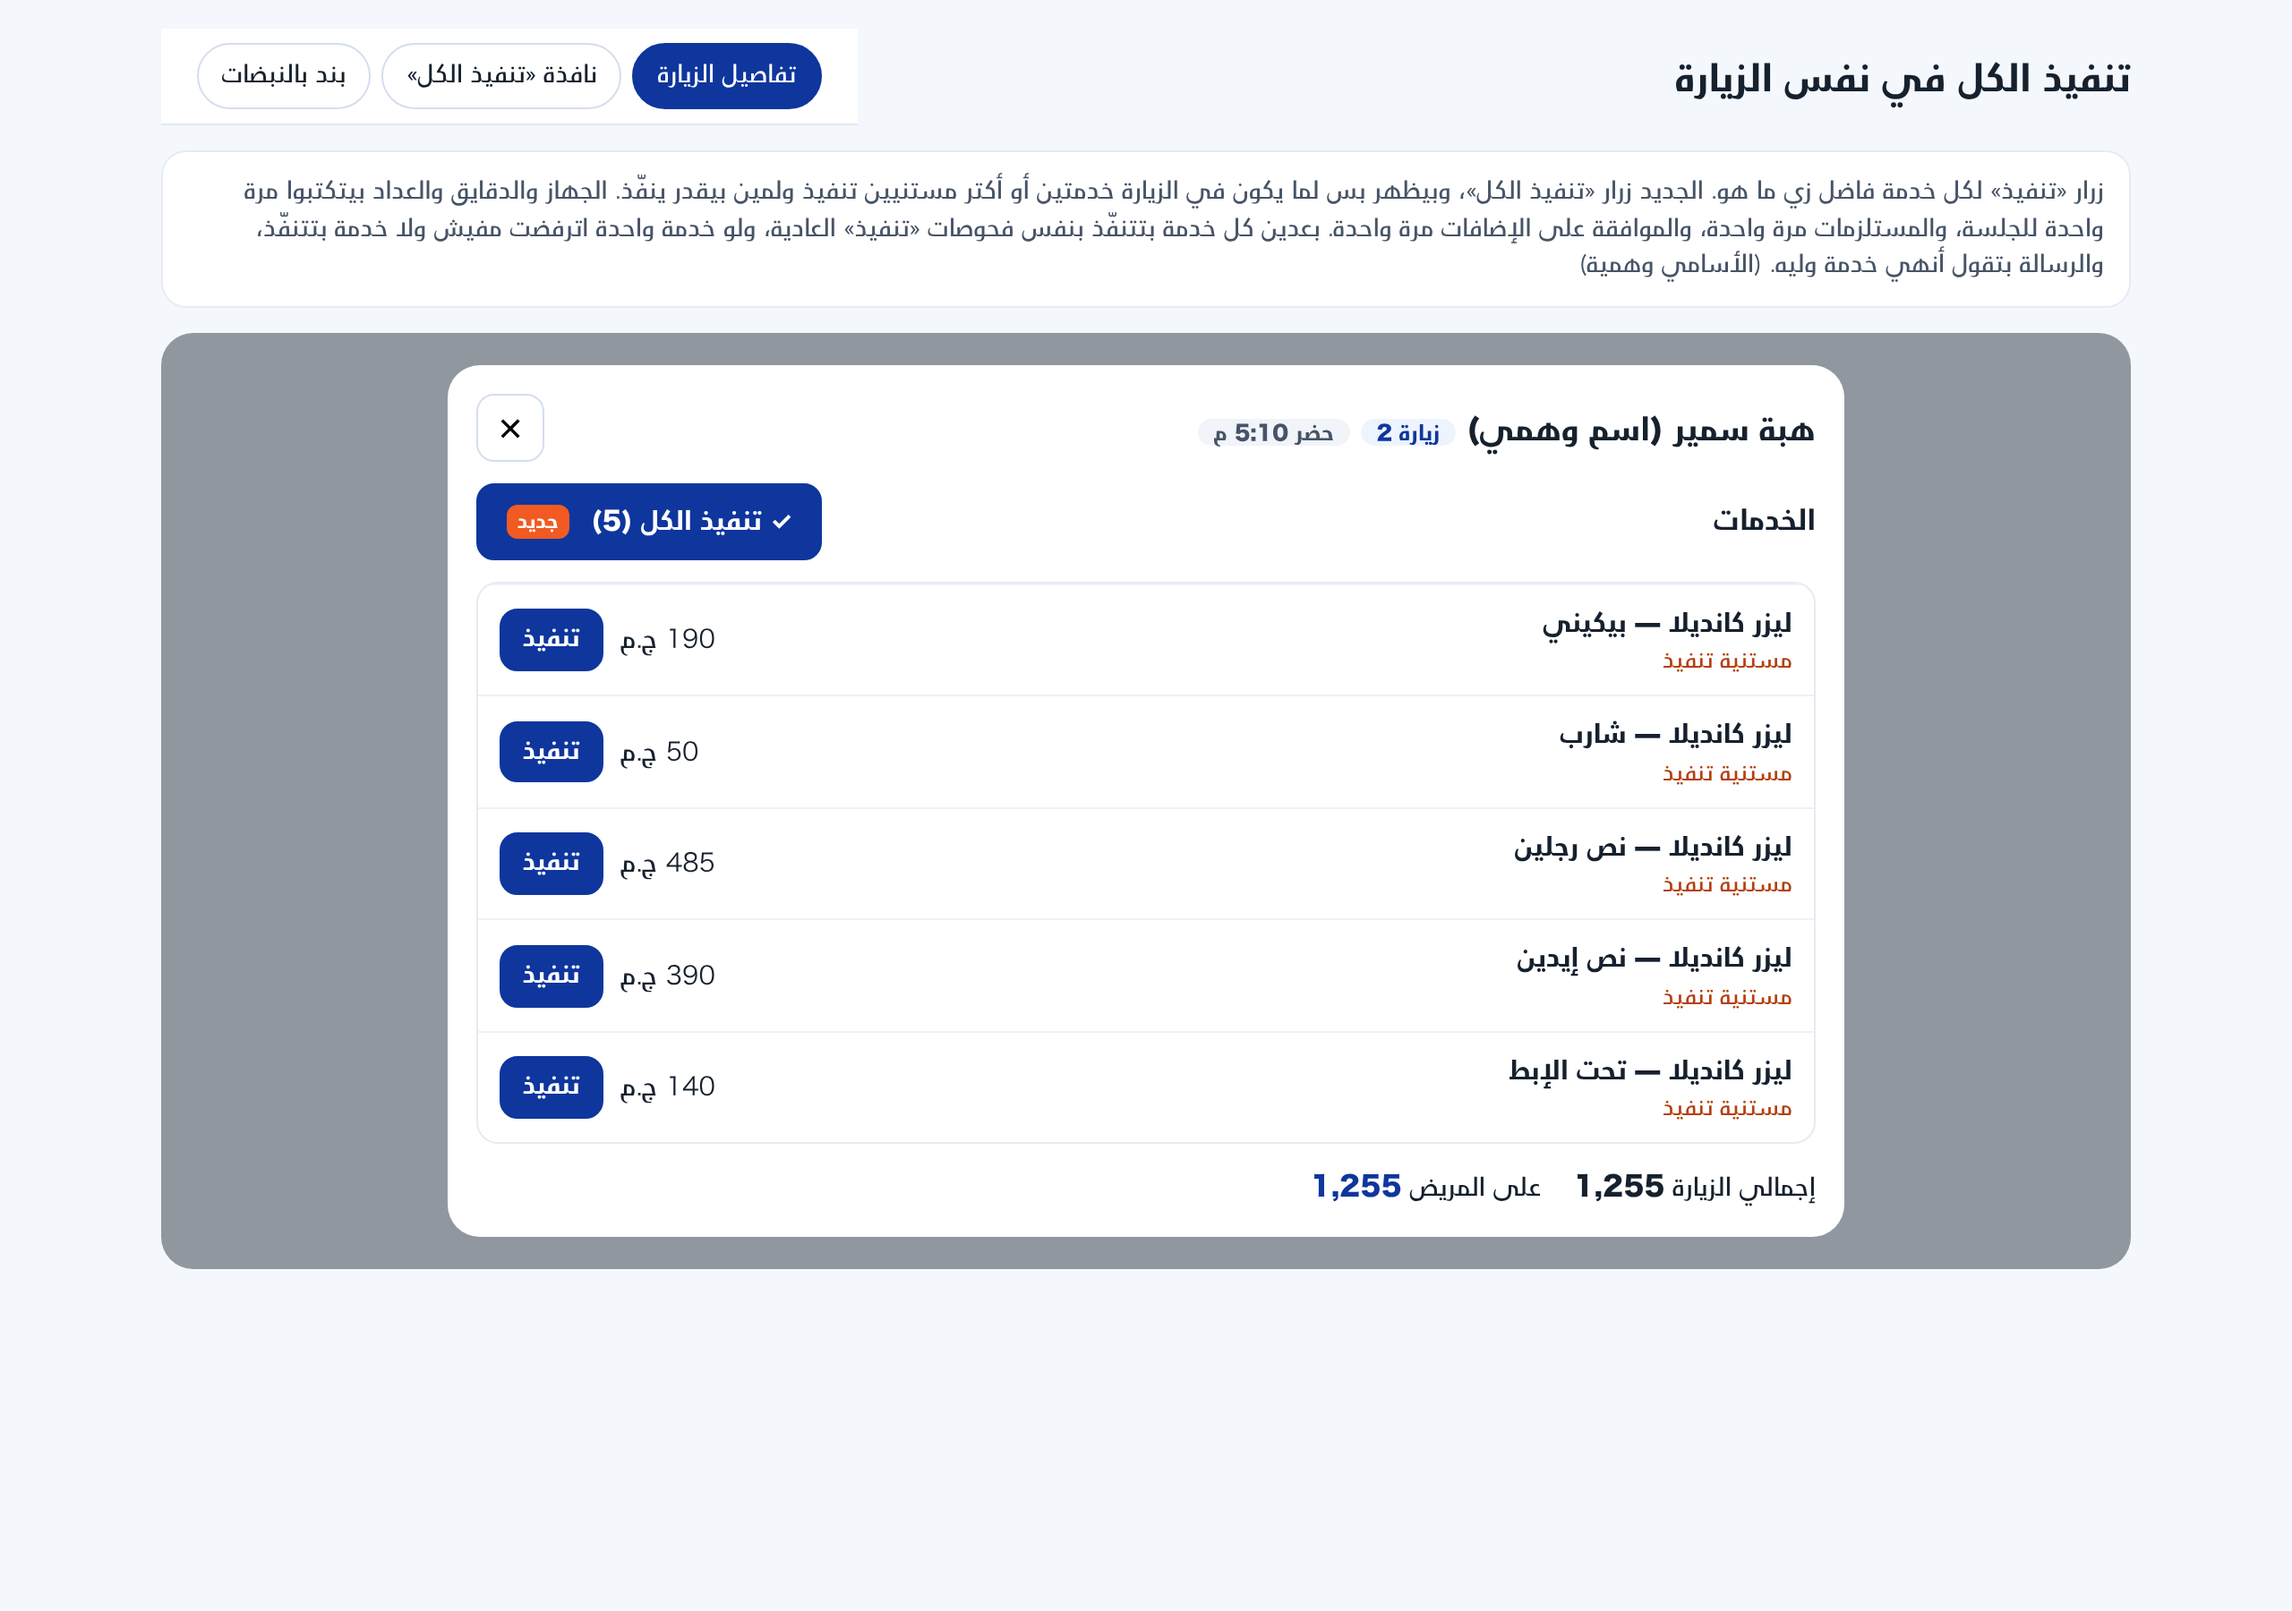
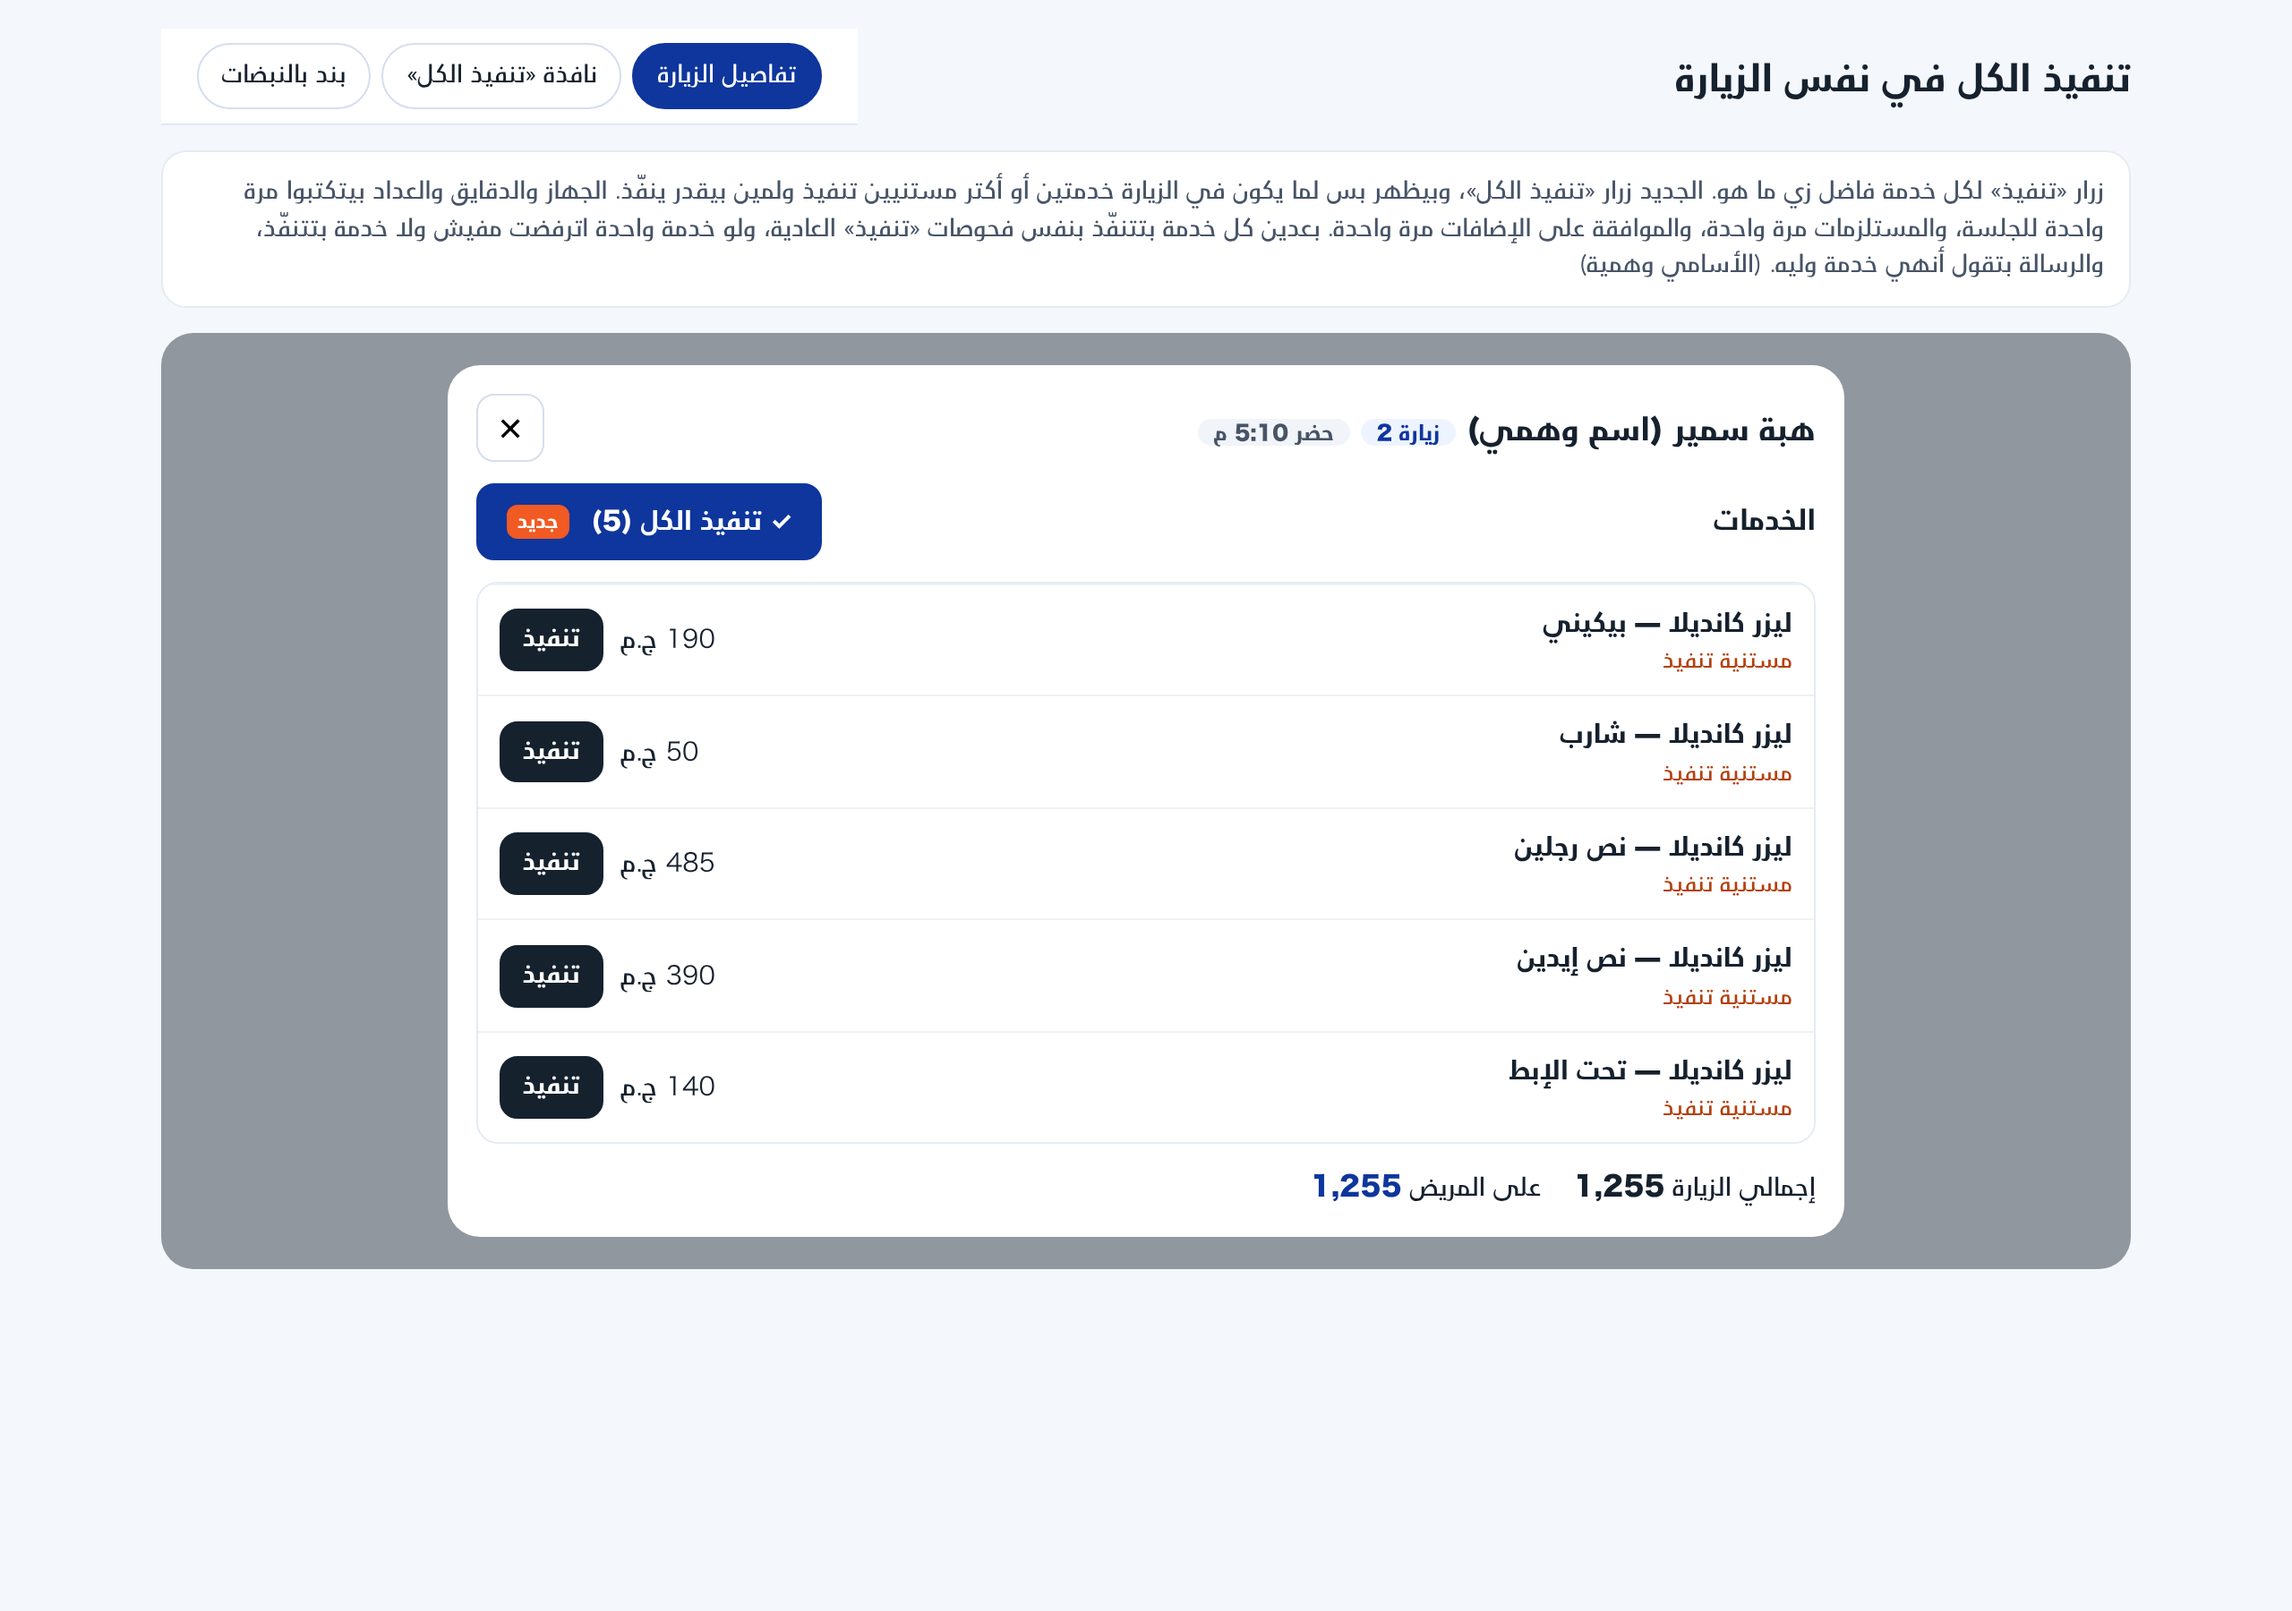
Mockup execute-all: per-service «تنفيذ» in dark ink #16212E like the live card (owner)
Claude-Session: https://claude.ai/code/session_01UqVZHW6epYvnmo5ftQ9K3R

Changed region(s): [[0.2188, 0.3733, 0.2812, 0.6222], [0.2188, 0.6533, 0.2812, 0.7156]]

diff --git a/docs/ui-references/mockups/execute-all.html b/docs/ui-references/mockups/execute-all.html
@@ -18,7 +18,7 @@
 .new{font-size:10.5px;background:#F15A22;color:#fff;border-radius:6px;padding:1px 6px;margin-inline-start:6px}
 .orow{display:grid;grid-template-columns:minmax(0,1fr) auto auto;gap:10px;align-items:center;padding:10px 12px;border-top:1px solid #eef1f6;font-size:14px}
 .orow small{display:block;color:#B4400F;font-size:12px}.olist{border:1px solid #e6ebf3;border-radius:12px;overflow:hidden}
-.btn{font:inherit;font-size:14px;font-weight:700;padding:9px 16px;border-radius:10px;border:1px solid #D5DEEE;background:#fff;color:#0F369D}.btn.pri{background:#0F369D;color:#fff;border-color:#0F369D}.btn.sm{padding:6px 12px;font-size:13px}.btn.all{background:#0F369D;border-color:#0F369D;color:#fff}
+.btn{font:inherit;font-size:14px;font-weight:700;padding:9px 16px;border-radius:10px;border:1px solid #D5DEEE;background:#fff;color:#0F369D}.btn.pri{background:#0F369D;color:#fff;border-color:#0F369D}.btn.sm{padding:6px 12px;font-size:13px}.orow .btn.pri{background:#16212E;border-color:#16212E}.btn.all{background:#0F369D;border-color:#0F369D;color:#fff}
 .bar{display:flex;align-items:center;gap:8px;justify-content:space-between;flex-wrap:wrap}
 .sec{border:1px solid #e6ebf3;border-radius:14px;padding:12px;display:grid;gap:10px}.sec h4{margin:0;font-size:14px;color:#0F369D}
 .pick{display:grid;grid-template-columns:auto minmax(0,1fr) auto;gap:10px;align-items:center;padding:8px 10px;border-top:1px solid #eef1f6;font-size:14px}.pick:first-child{border-top:0}
